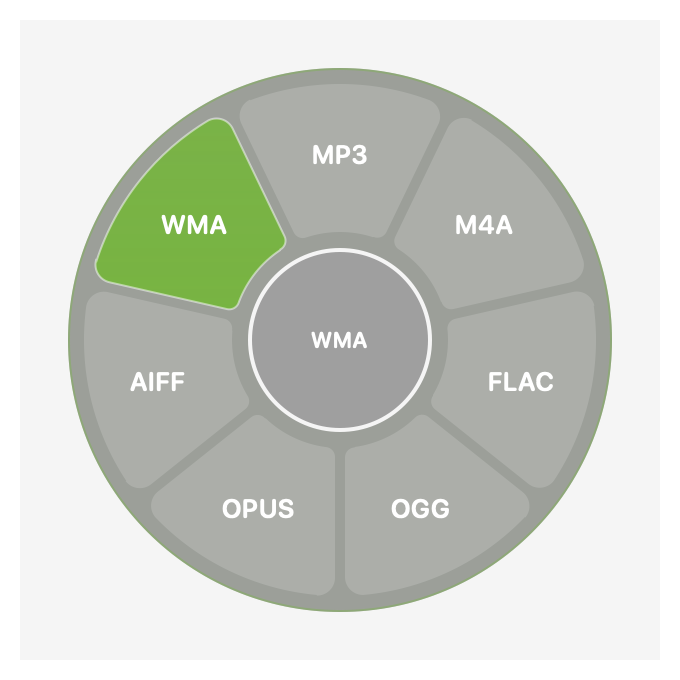
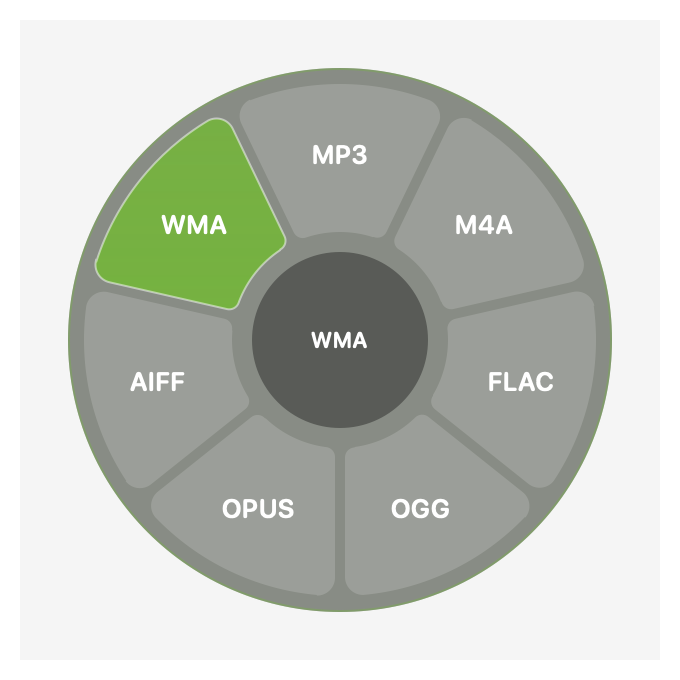
feat: Liquid Glass wheel and shelf, with Frosted and Solid styles
- The glass wheel was a see-through tint with no blur, so file names behind
  it showed through the labels. It now uses Liquid Glass on macOS 26 and
  later and a behind-window blur elsewhere, both smoked for white labels.
- Settings › Style offers Liquid Glass, Frosted and Solid; Liquid Glass is
  only offered where the system has it. The old Glass/Solid choice migrates.
- Tool windows draw into the hidden title bar strip, removing the empty band
  above their header; fixed windows shrink by the same amount.

Changed region(s): [[0.3397, 0.3397, 0.6485, 0.6485]]

diff --git a/Sources/Editors/ToolWindow.swift b/Sources/Editors/ToolWindow.swift
@@ -80,7 +80,7 @@ final class ToolWindowController: NSObject, NSWindowDelegate {
         let fits = Self.fitsContent(model.tool)
         if fits { size.height = Self.contentHeight(model: model, width: size.width) }
         // Windows keep the size set here; content never resizes them on its own.
-        let host = FirstMouseHostingView(rootView: root.frame(width: size.width).frame(maxHeight: .infinity))
+        let host = FirstMouseHostingView(rootView: root.frame(width: size.width).frame(maxHeight: .infinity).ignoresSafeArea(.container, edges: .top))
         host.sizingOptions = []
         let window = NSWindow(contentRect: NSRect(origin: .zero, size: size), styleMask: [.titled, .closable, .fullSizeContentView], backing: .buffered, defer: false)
         window.titlebarAppearsTransparent = true
@@ -93,10 +93,6 @@ final class ToolWindowController: NSObject, NSWindowDelegate {
         window.contentView = host
         window.delegate = self
         window.level = .floating
-        if fits {
-            size.height += Self.titleBarInset(window)
-            window.setContentSize(size)
-        }
         if let screen = NSScreen.screens.first(where: { NSMouseInRect(point, $0.frame, false) }) ?? NSScreen.main {
             let f = screen.visibleFrame
             let origin = NSPoint(x: min(max(point.x - size.width / 2, f.minX), f.maxX - size.width), y: min(max(point.y - size.height / 2, f.minY), f.maxY - size.height))
@@ -122,17 +118,11 @@ final class ToolWindowController: NSObject, NSWindowDelegate {
         return ceil(probe.fittingSize.height)
     }
 
-    /// Height of the hidden title bar. SwiftUI lays the content out below it,
-    /// so a window sized to its content needs this much more.
-    static func titleBarInset(_ window: NSWindow) -> CGFloat {
-        window.frame.height - window.contentLayoutRect.height
-    }
-
     /// Resizes the window to its content, keeping the title bar in place
     /// unless that would push the bottom off screen.
     private func fitHeight() {
         guard let window else { return }
-        let height = Self.contentHeight(model: model, width: window.frame.width) + Self.titleBarInset(window)
+        let height = Self.contentHeight(model: model, width: window.frame.width)
         var frame = window.frame
         frame.origin.y = frame.maxY - height
         frame.size.height = height
@@ -145,27 +135,27 @@ final class ToolWindowController: NSObject, NSWindowDelegate {
     /// Window size per tool, roomy enough for its controls.
     static func size(for tool: LimeTool) -> NSSize {
         switch tool {
-        case .compress: NSSize(width: 400, height: 399)
-        case .stripTags: NSSize(width: 500, height: 564)
-        case .adjustPhoto: NSSize(width: 500, height: 811)
-        case .markUpPhoto: NSSize(width: 460, height: 752)
-        case .addBackdrop: NSSize(width: 460, height: 674)
-        case .cropPhoto: NSSize(width: 420, height: 629)
-        case .maskPhoto: NSSize(width: 420, height: 765)
-        case .levelAudio: NSSize(width: 420, height: 635)
-        case .waveVideo: NSSize(width: 420, height: 655)
-        case .cutAudio: NSSize(width: 420, height: 360)
-        case .remixChannels, .censorAudio: NSSize(width: 420, height: 424)
-        case .cutVideo: NSSize(width: 420, height: 706)
-        case .cropClip: NSSize(width: 420, height: 687)
-        case .retimeVideo: NSSize(width: 420, height: 694)
-        case .grabFrames: NSSize(width: 420, height: 700)
-        case .sliceVideo: NSSize(width: 420, height: 612)
-        case .maskVideo: NSSize(width: 420, height: 880)
-        case .arrangePages: NSSize(width: 580, height: 624)
-        case .makeMosaic: NSSize(width: 420, height: 720)
-        case .stitchVideos, .combinePDFs, .imagesToPDF: NSSize(width: 340, height: 300)
-        default: NSSize(width: 420, height: 520)
+        case .compress: NSSize(width: 400, height: 367)
+        case .stripTags: NSSize(width: 500, height: 532)
+        case .adjustPhoto: NSSize(width: 500, height: 779)
+        case .markUpPhoto: NSSize(width: 460, height: 720)
+        case .addBackdrop: NSSize(width: 460, height: 642)
+        case .cropPhoto: NSSize(width: 420, height: 597)
+        case .maskPhoto: NSSize(width: 420, height: 733)
+        case .levelAudio: NSSize(width: 420, height: 603)
+        case .waveVideo: NSSize(width: 420, height: 623)
+        case .cutAudio: NSSize(width: 420, height: 328)
+        case .remixChannels, .censorAudio: NSSize(width: 420, height: 392)
+        case .cutVideo: NSSize(width: 420, height: 674)
+        case .cropClip: NSSize(width: 420, height: 655)
+        case .retimeVideo: NSSize(width: 420, height: 662)
+        case .grabFrames: NSSize(width: 420, height: 668)
+        case .sliceVideo: NSSize(width: 420, height: 580)
+        case .maskVideo: NSSize(width: 420, height: 848)
+        case .arrangePages: NSSize(width: 580, height: 592)
+        case .makeMosaic: NSSize(width: 420, height: 688)
+        case .stitchVideos, .combinePDFs, .imagesToPDF: NSSize(width: 340, height: 268)
+        default: NSSize(width: 420, height: 488)
         }
     }
 

diff --git a/Sources/Wheel/WheelView.swift b/Sources/Wheel/WheelView.swift
@@ -8,6 +8,8 @@ final class WheelModel: ObservableObject {
     @Published var mode: WheelMode = .convert
     @Published var selected: Int?
     @Published var glass = true
+    /// Liquid Glass rather than the frosted blur (macOS 26 and later).
+    @Published var liquid = true
     @Published var presented = false
     @Published var idleLabel = ""
     let geometry = WheelGeometry()
@@ -45,15 +47,20 @@ struct WheelView: View {
     private var dark: Bool { scheme == .dark }
     private var labelColor: Color { dark || model.glass ? .white : Color(white: 0.12) }
 
-    private var discFill: Color {
-        if !model.glass { return dark ? Color(white: 0.13) : Color(white: 0.88) }
-        return dark ? Color.black.opacity(0.48) : Color(red: 0.12, green: 0.16, blue: 0.1).opacity(0.42)
+    private var discFill: Color { dark ? Color(white: 0.13) : Color(white: 0.88) }
+
+    /// Tint over the glass, dark enough for white labels on any window.
+    private var smoke: Color {
+        dark ? Color.black.opacity(0.3) : Color(red: 0.1, green: 0.14, blue: 0.08).opacity(0.5)
     }
 
     private var backdrop: some View {
-        let ring = RingShape(outer: g.disc, inner: g.hole)
-        return ZStack {
-            ring.fill(discFill, style: FillStyle(eoFill: true))
+        ZStack {
+            if model.glass {
+                GlassBackdrop(shape: Circle(), tint: smoke, liquid: model.liquid).frame(width: g.disc * 2, height: g.disc * 2)
+            } else {
+                RingShape(outer: g.disc, inner: g.hole).fill(discFill, style: FillStyle(eoFill: true))
+            }
             Circle().strokeBorder(Color(nsColor: Brand.accent).opacity(0.35), lineWidth: 1)
                 .frame(width: g.disc * 2, height: g.disc * 2)
         }
@@ -127,7 +134,10 @@ struct WheelView: View {
             .lineLimit(1).minimumScaleFactor(0.8)
             .padding(.horizontal, 16)
             .frame(width: 260, height: 40)
-            .background(RoundedRectangle(cornerRadius: 10, style: .continuous).fill(discFill))
+            .background {
+                let shape = RoundedRectangle(cornerRadius: 10, style: .continuous)
+                if model.glass { GlassBackdrop(shape: shape, tint: smoke, liquid: model.liquid) } else { shape.fill(discFill) }
+            }
             .overlay(RoundedRectangle(cornerRadius: 10, style: .continuous).strokeBorder(Color(nsColor: Brand.accent).opacity(0.35), lineWidth: 1))
     }
 }
@@ -148,6 +158,22 @@ struct RingShape: Shape {
         p.addEllipse(in: CGRect(x: rect.midX - outer, y: rect.midY - outer, width: outer * 2, height: outer * 2))
         p.addEllipse(in: CGRect(x: rect.midX - inner, y: rect.midY - inner, width: inner * 2, height: inner * 2))
         return p
+    }
+}
+
+/// See-through backdrop that blurs whatever sits behind it, so file names
+/// underneath never compete with the labels: Liquid Glass when chosen and
+/// available (macOS 26 and later), a behind-window blur otherwise.
+struct GlassBackdrop<S: Shape>: View {
+    let shape: S
+    let tint: Color
+    var liquid = true
+    var body: some View {
+        if liquid, #available(macOS 26.0, *) {
+            Color.clear.glassEffect(.regular, in: shape).overlay(shape.fill(tint))
+        } else {
+            VisualEffectBlur(material: .hudWindow).clipShape(shape).overlay(shape.fill(tint))
+        }
     }
 }
 

diff --git a/Tests/InteractionChecks.swift b/Tests/InteractionChecks.swift
@@ -184,6 +184,23 @@ expect(!MarkdownRenderer.inline("![a](%2e%2e/secret.png)").contains("<img") && !
         expect(settings.mode(for: [.control, .option]) == .convert, "custom combination resolves")
         dragFiles = []
 
+        // MARK: Surface style
+        do {
+            func fresh(_ setup: (UserDefaults) -> Void) -> AppSettings {
+                let defaults = UserDefaults(suiteName: "LimeSurface-\(UUID().uuidString)")!
+                setup(defaults)
+                return AppSettings(defaults: defaults)
+            }
+            expect(fresh { _ in }.surface == SurfaceStyle.standard, "new installs start on the best glass this Mac has")
+            expect(fresh { $0.set(false, forKey: "glass") }.surface == .solid, "an old Solid choice stays Solid")
+            expect(fresh { $0.set(true, forKey: "glass") }.surface == SurfaceStyle.standard, "an old Glass choice moves to the default glass")
+            expect(fresh { $0.set("frosted", forKey: "surface") }.surface == .frosted, "Frosted can be chosen on any Mac")
+            let liquid = fresh { $0.set("liquid", forKey: "surface") }.surface
+            expect(liquid == (SurfaceStyle.liquidAvailable ? .liquid : .frosted), "Liquid Glass falls back to Frosted without macOS 26")
+            expect(SurfaceStyle.offered.contains(.liquid) == SurfaceStyle.liquidAvailable, "Settings only offers Liquid Glass where it exists")
+            expect(!fresh { $0.set("solid", forKey: "surface") }.glass, "Solid is opaque")
+        }
+
         // MARK: Tool windows
         do {
             let photo = FileManager.default.temporaryDirectory.appendingPathComponent("Lime-\(UUID().uuidString).jpg")
@@ -191,8 +208,8 @@ expect(!MarkdownRenderer.inline("![a](%2e%2e/secret.png)").contains("<img") && !
             let compress = ToolWindowController(tool: .compress, files: [photo], settings: settings) { _, _ in }
             compress.show(near: NSPoint(x: 600, y: 500))
             if let window = compress.window {
-                let fits = { abs(window.contentLayoutRect.height - ToolWindowController.contentHeight(model: compress.model, width: window.frame.width)) < 1 }
-                expect(fits(), "compress window leaves room for its controls under the title bar")
+                let fits = { abs(window.frame.height - ToolWindowController.contentHeight(model: compress.model, width: window.frame.width)) < 1 }
+                expect(fits(), "compress window is exactly as tall as its controls")
                 compress.model.options.sizeGoal = compress.model.options.sizeGoal == .preset ? .percentage : .preset
                 RunLoop.main.run(until: Date().addingTimeInterval(0.8))
                 expect(fits(), "compress window still fits after a mode change")

diff --git a/Sources/App/AppSettings.swift b/Sources/App/AppSettings.swift
@@ -45,13 +45,35 @@ enum ShellApp: String, CaseIterable {
     var name: String { self == .terminal ? "Terminal" : "iTerm2" }
 }
 
+/// Look of the wheel and the shelf. Liquid Glass needs macOS 26; Frosted is
+/// the blur older systems get, and Solid is opaque.
+enum SurfaceStyle: String, CaseIterable, Sendable {
+    case liquid, frosted, solid
+    static var liquidAvailable: Bool {
+        if #available(macOS 26.0, *) { return true }
+        return false
+    }
+    static var standard: SurfaceStyle { liquidAvailable ? .liquid : .frosted }
+    var title: String {
+        switch self {
+        case .liquid: "Liquid Glass"
+        case .frosted: "Frosted"
+        case .solid: "Solid"
+        }
+    }
+    /// Choices offered in Settings on this Mac.
+    static var offered: [SurfaceStyle] { liquidAvailable ? allCases : [.frosted, .solid] }
+}
+
 /// Persisted preferences (`LimeSettingsModel`).
 @MainActor
 final class AppSettings: ObservableObject {
     static let shared = AppSettings()
     private let defaults: UserDefaults
 
-    @Published var glass: Bool { didSet { defaults.set(glass, forKey: "glass"); NotificationCenter.default.post(name: .wheelThemeDidChange, object: nil) } }
+    @Published var surface: SurfaceStyle { didSet { defaults.set(surface.rawValue, forKey: "surface"); NotificationCenter.default.post(name: .wheelThemeDidChange, object: nil) } }
+    /// See-through styles; Solid is the only opaque one.
+    var glass: Bool { surface != .solid }
     @Published var feedback: Bool { didSet { defaults.set(feedback, forKey: "feedback") } }
     @Published var monitoring: Bool { didSet { defaults.set(monitoring, forKey: "monitoring") } }
     /// Grab Text and Cut Out Subject in the tools wheel.
@@ -76,7 +98,10 @@ final class AppSettings: ObservableObject {
         self.defaults = defaults
         defaults.register(defaults: ["glass": true, "feedback": true, "monitoring": true, "extraTools": true, "shelfDropRule": ShelfDropRule.newShelf.rawValue,
                                      "terminal": ShellApp.terminal.rawValue, "welcomeCompleted": false])
-        glass = defaults.bool(forKey: "glass")
+        // Older builds stored a Glass/Solid switch under "glass".
+        let stored = defaults.string(forKey: "surface").flatMap(SurfaceStyle.init(rawValue:))
+            ?? (defaults.bool(forKey: "glass") ? SurfaceStyle.standard : .solid)
+        surface = stored == .liquid && !SurfaceStyle.liquidAvailable ? .frosted : stored
         feedback = defaults.bool(forKey: "feedback")
         monitoring = defaults.bool(forKey: "monitoring")
         extraTools = defaults.bool(forKey: "extraTools")

diff --git a/Sources/Windows/Shelf.swift b/Sources/Windows/Shelf.swift
@@ -30,6 +30,7 @@ final class ShelfModel: ObservableObject {
 /// A card that holds files, with a lime tab along its top edge.
 struct ShelfView: View {
     @ObservedObject var model: ShelfModel
+    @ObservedObject var settings: AppSettings
     @Environment(\.colorScheme) private var scheme
     @State private var band: CGRect?
     @State private var itemFrames: [URL: CGRect] = [:]
@@ -62,10 +63,8 @@ struct ShelfView: View {
     }
 
     private var card: some View {
-        ZStack {
-            VisualEffectBlur(material: .hudWindow)
-            (scheme == .dark ? Color.black.opacity(0.25) : Color.white.opacity(0.55))
-        }
+        GlassBackdrop(shape: RoundedRectangle(cornerRadius: 16, style: .continuous),
+                      tint: scheme == .dark ? Color.black.opacity(0.25) : Color.white.opacity(0.55), liquid: settings.surface == .liquid)
     }
 
     private var header: some View {
@@ -309,7 +308,7 @@ final class ShelfController {
         }
         let model = ShelfModel()
         model.items = files
-        let host = FirstMouseHostingView(rootView: ShelfView(model: model))
+        let host = FirstMouseHostingView(rootView: ShelfView(model: model, settings: settings))
         let panel = FloatPanel(contentRect: NSRect(x: 0, y: 0, width: 300, height: 200), styleMask: [.borderless, .nonactivatingPanel, .resizable], backing: .buffered, defer: false)
         panel.isOpaque = false
         panel.backgroundColor = .clear

diff --git a/Sources/Wheel/WheelController.swift b/Sources/Wheel/WheelController.swift
@@ -84,15 +84,20 @@ final class WheelController {
     init(settings: AppSettings) {
         self.settings = settings
         NotificationCenter.default.addObserver(forName: .wheelThemeDidChange, object: nil, queue: .main) { [weak self] _ in
-            MainActor.assumeIsolated { self?.model.glass = settings.glass }
+            MainActor.assumeIsolated { self?.applySurface() }
         }
+    }
+
+    private func applySurface() {
+        model.glass = settings.glass
+        model.liquid = settings.surface == .liquid
     }
 
     func show(files: [URL], mode: WheelMode, at point: NSPoint, keyboard: Bool = false) {
         self.files = files
         let panel = self.panel ?? makePanel()
         setMode(mode)
-        model.glass = settings.glass
+        applySurface()
         model.idleLabel = Self.summary(files)
         if !(panel.isVisible && model.presented) {
             let size = WheelGeometry.canvasSide

diff --git a/Sources/App/RenderHarness.swift b/Sources/App/RenderHarness.swift
@@ -38,7 +38,7 @@ enum RenderHarness {
         jobs.append(("progress", AnyView(OperationProgressView(model: progress)), CGSize(width: 290, height: 80), 0.3))
         let shelf = ShelfModel()
         shelf.items = [photo, audio]
-        jobs.append(("shelf", AnyView(ShelfView(model: shelf)), CGSize(width: 320, height: 300), 1.0))
+        jobs.append(("shelf", AnyView(ShelfView(model: shelf, settings: settings)), CGSize(width: 320, height: 300), 1.0))
         for tool in [LimeTool.compress, .adjustPhoto, .markUpPhoto, .addBackdrop, .cropPhoto, .maskPhoto, .stripTags] {
             let model = ToolEditorModel(tool: tool, files: [photo], settings: settings)
             if tool == .markUpPhoto {

diff --git a/Sources/Windows/SettingsView.swift b/Sources/Windows/SettingsView.swift
@@ -196,7 +196,7 @@ struct GeneralSettings: View {
         SettingsSection(title: "Appearance") {
             HStack(spacing: 8) {
                 Text("Style")
-                TintedSegments(title: "Style", selection: $settings.glass, options: [(true, "Glass"), (false, "Solid")])
+                TintedSegments(title: "Style", selection: $settings.surface, options: SurfaceStyle.offered.map { ($0, $0.title) })
                 Spacer()
             }.frame(height: 38)
         }

diff --git a/README.md b/README.md
@@ -64,7 +64,7 @@ Only do this for a copy you downloaded from this repository's Releases page. Eac
   - **REMOVE BG**: finds the person, animal or object in a photo and makes a transparent PNG without the background (`name (no background).png`). Needs macOS 14 or later.
 - **6 actions**: Shelf, Copy, Move, AirDrop, Copy Path and Terminal (opens Terminal or iTerm2).
 - **Shelf**: a holding card with a lime tab on top. Icon and list views, drag on empty space to select several, drag many files out at once, drop files in to add them, collapse, snap to screen edges, and Space for Quick Look.
-- **Settings**: Basics (Glass/Solid, launch at login, sound and haptics, key combo per wheel, Shelf behaviour, terminal app), Outputs (per-format quality, metadata, bit depth, compression, maximum video height, EPUB/Office layout), Conversions (format table), Access (save location, folder permissions) and About Lime.
+- **Settings**: Basics (Liquid Glass/Frosted/Solid style — Liquid Glass on macOS 26 and later, launch at login, sound and haptics, key combo per wheel, Shelf behaviour, terminal app), Outputs (per-format quality, metadata, bit depth, compression, maximum video height, EPUB/Office layout), Conversions (format table), Access (save location, folder permissions) and About Lime.
 - Progress cards, cancel, and click when finished to reveal in Finder.
 
 ## No other apps needed
